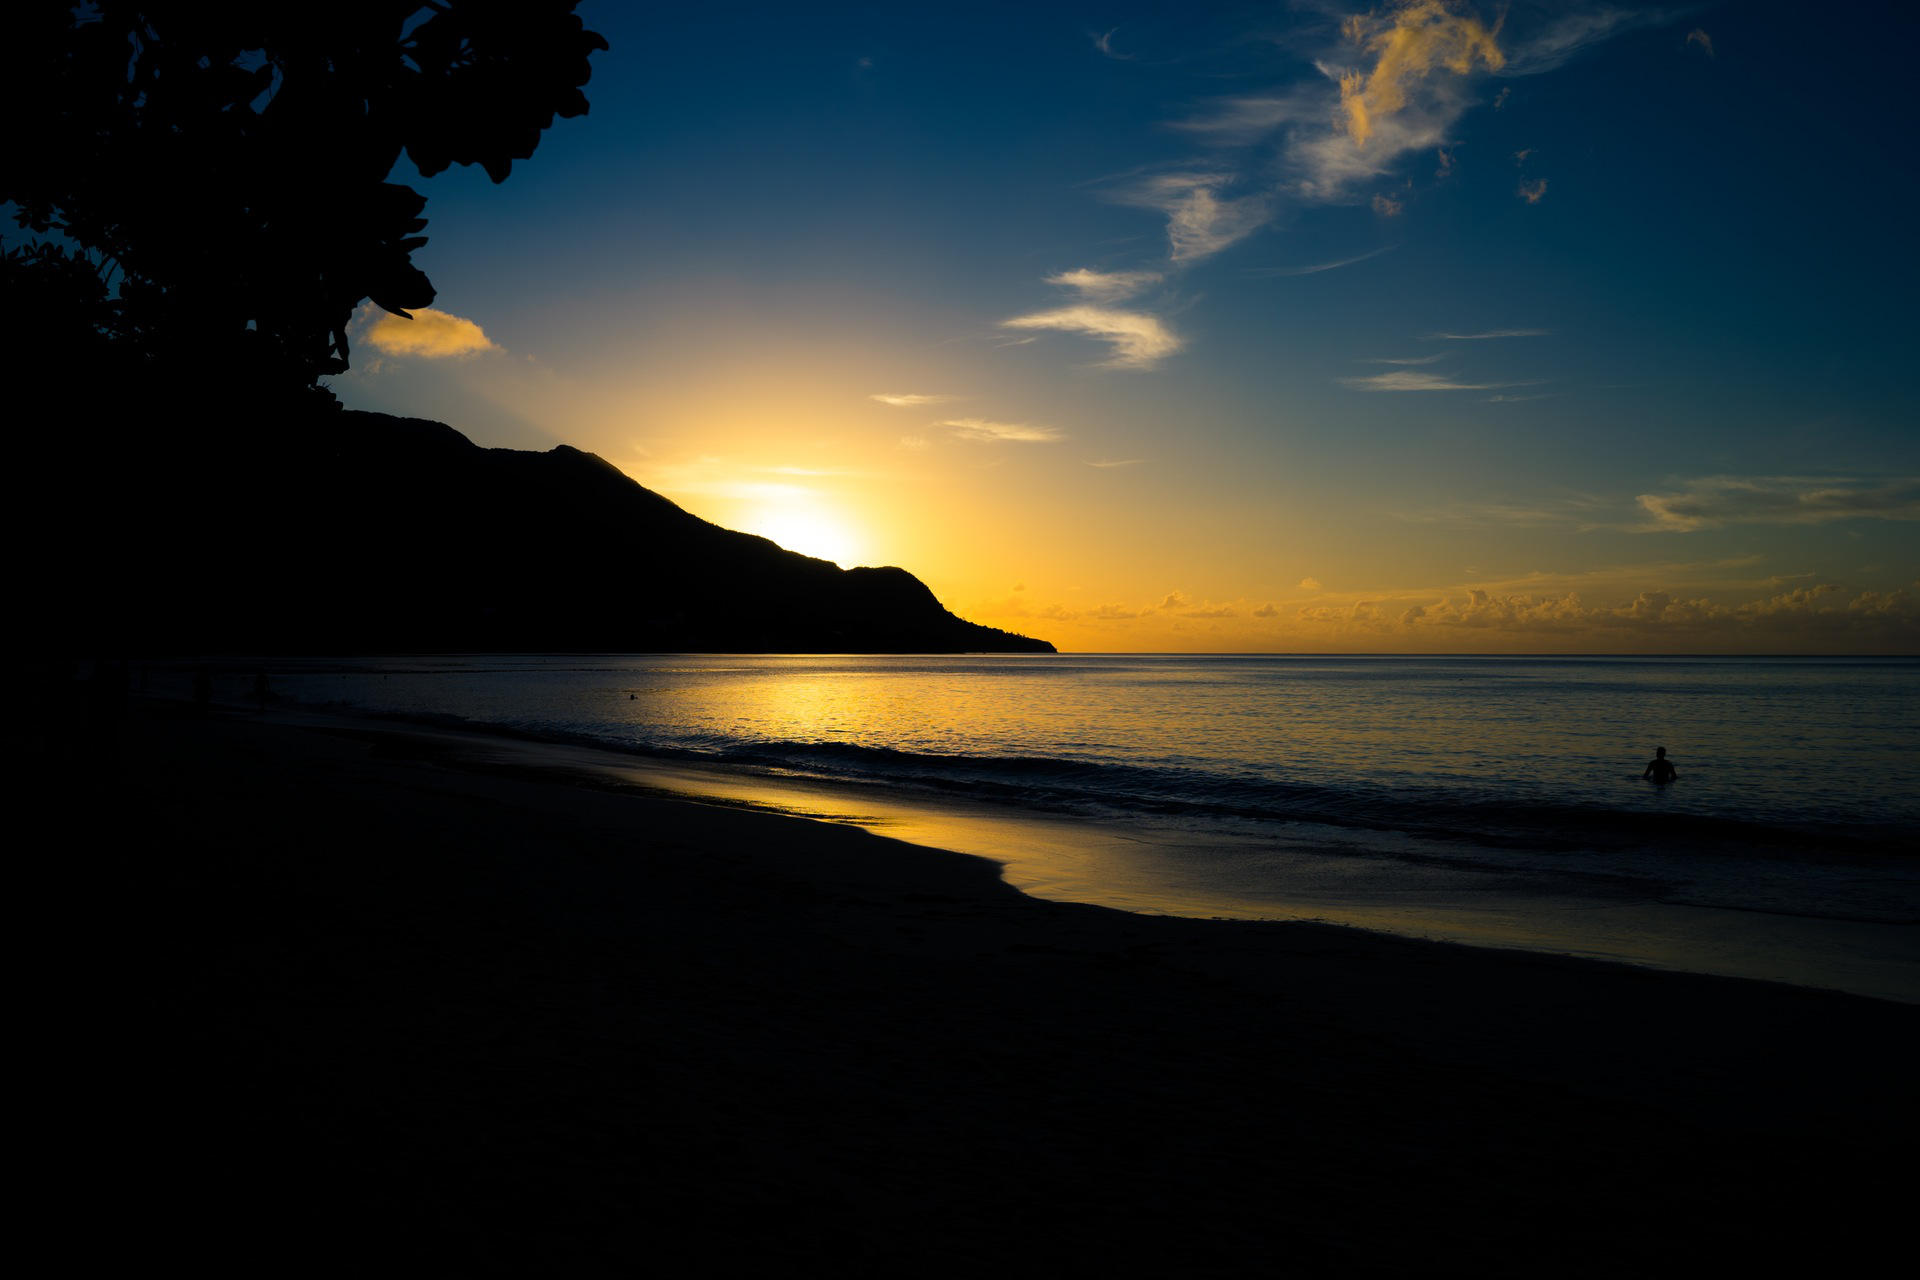
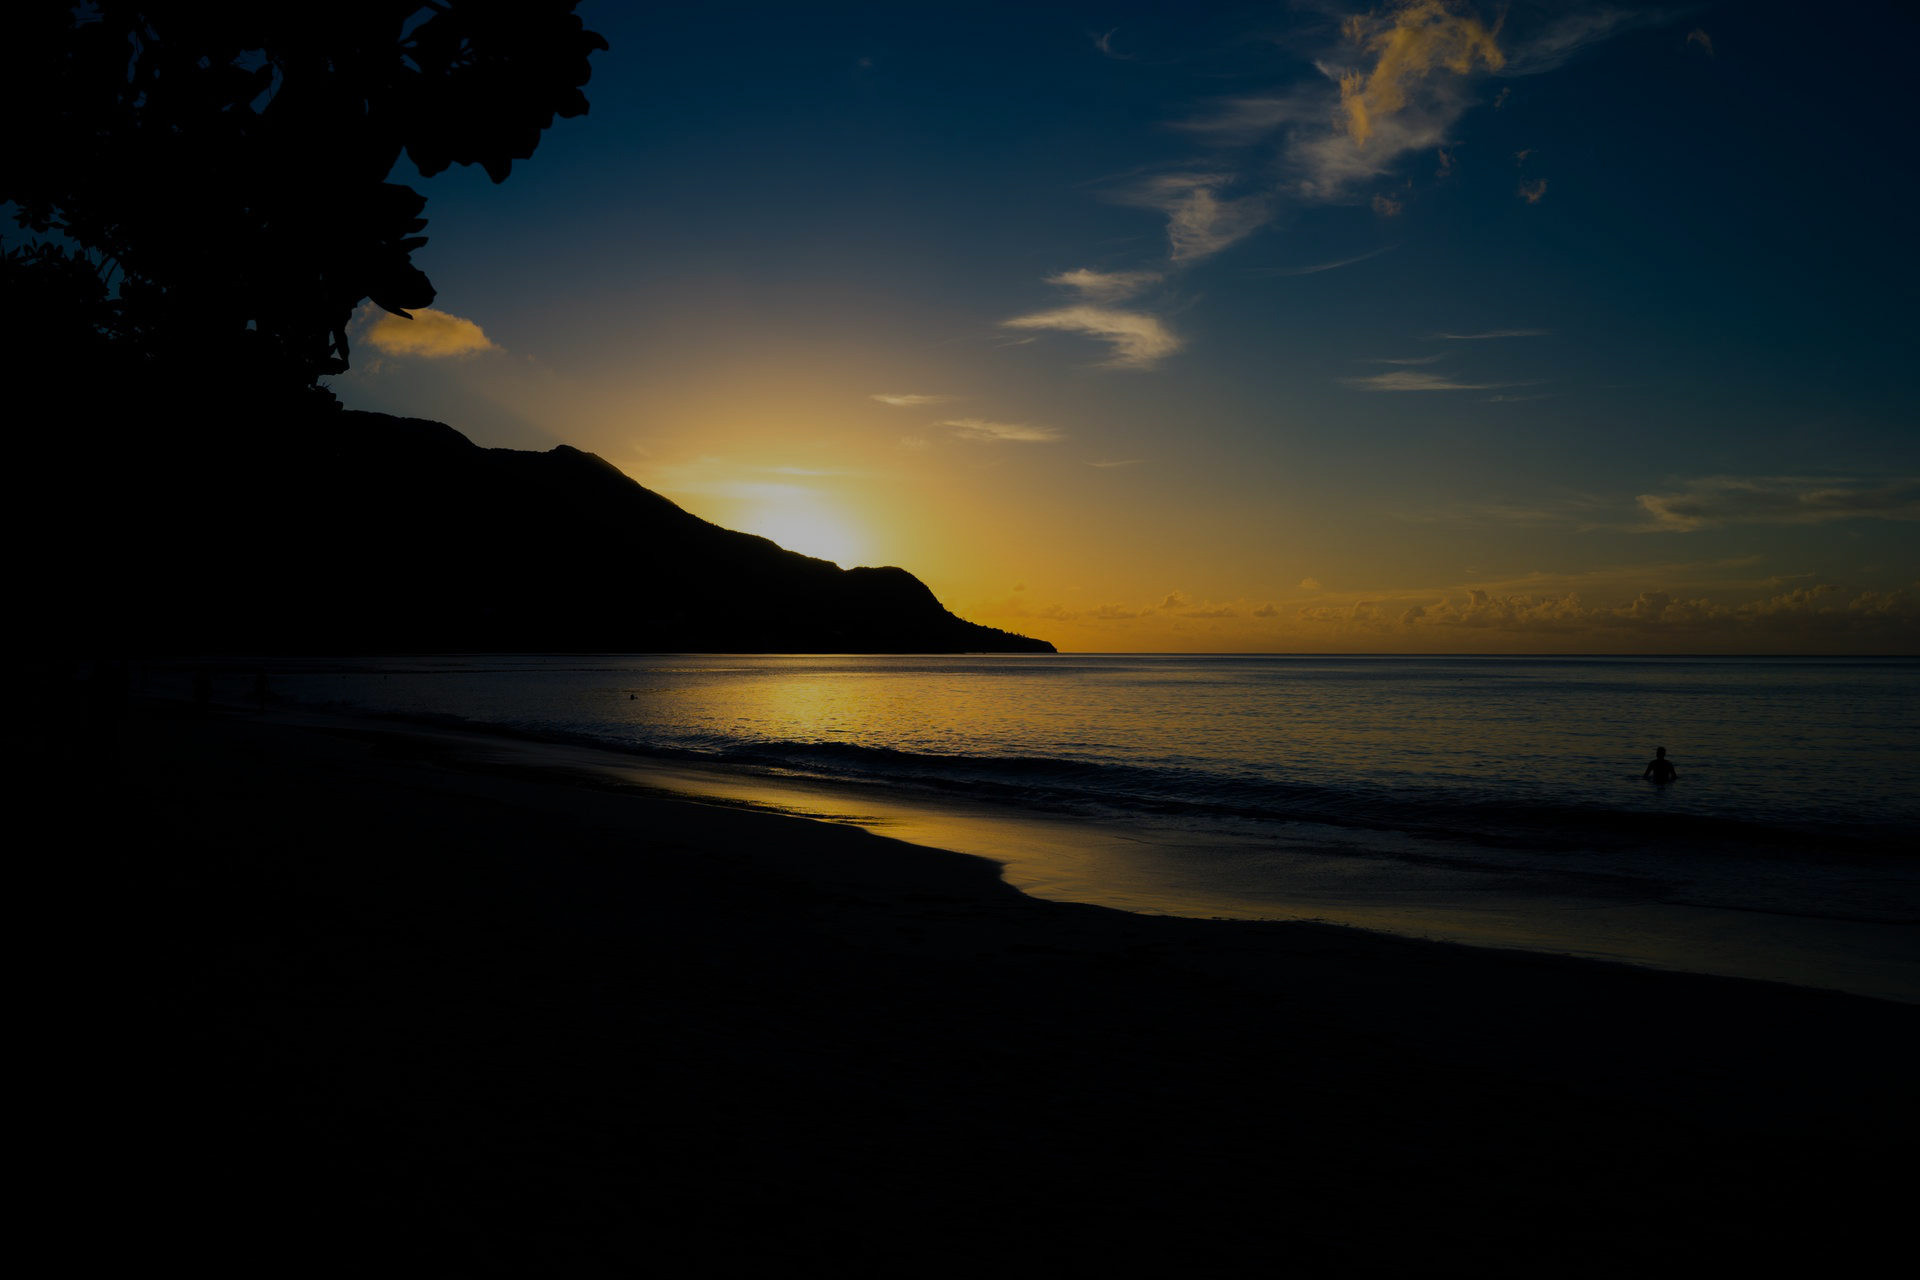
Change quote font and shadows, and darken bg-imgs for readability

Changed region(s): [[0.1562, 0.0, 0.9375, 0.7188], [0.9375, 0.375, 0.9688, 0.4062]]

diff --git a/styles/main.css b/styles/main.css
@@ -1,9 +1,8 @@
 html {
-  width: 100%;
+	width: 100%;
 }
 
 body {
-  font-size: 32px;
 }
 
 main {
@@ -53,19 +52,24 @@ a:hover {
 
 h1 {
   font-size: 2em;
-  font-family: Tangerine, cursive;
+	font-family: 'Niconne', cursive;
   color: #fff;
-  text-shadow: 0px 0px 1px rgb(0, 0, 0), 3px -5px 1px rgb(0, 0, 0), 2px -3px 3px rgba(0, 0, 0, 0.7);
-  margin: .25em .25em;
-  font-weight: 700;
+	text-shadow: 0 0 2px #fff,
+	-1px -1px 0 rgb(75, 75, 75),
+	-2px -2px 1px rgb(120, 120, 120),
+	-2px -2px 2px hsl(80, 10%, 15%);
 }
 
 h1>span {
-  font-size: .40em;
-  font-family: "Cutive Mono", monospace;
+  font-size: .5em;
+	font-family: "Cutive Mono", monospace;
   text-shadow: inherit;
-  text-shadow: 0px 0px 2px rgba(0, 0, 0, 0.8), 1px -3px 1px rgba(0, 0, 0, 0.3), 2px -3px 3px rgba(0, 0, 0, 0.7);
-  font-weight: 300;
+  text-shadow: 0 0 2px #fff,
+	text-shadow: 0 0 2px #fff,
+	-1px -1px 0 rgb(75, 75, 75),
+	-2px -2px 1px rgb(120, 120, 120),
+	-2px -2px 2px hsl(80, 10%, 15%);
+  font-weight: 500;
   line-height: 0.em;
 }
 

diff --git a/index.html b/index.html
@@ -5,8 +5,8 @@
 	<link rel="stylesheet" href="//cdnjs.cloudflare.com/ajax/libs/materialize/0.100.2/css/materialize.min.css">
 	<link href="//use.fontawesome.com/releases/v5.0.6/css/all.css" rel="stylesheet">
 	<link href="styles/loader.css" rel="stylesheet" type="text/css">
-	<link href='//fonts.googleapis.com/css?family=Tangerine:700' rel='stylesheet' type='text/css'>
-	<link href='//fonts.googleapis.com/css?family=Cutive+Mono' rel='stylesheet' type='text/css'>
+	<link href='//fonts.googleapis.com/css?family=Niconne' rel='stylesheet' type='text/css'>
+	<link href='//fonts.googleapis.com/css?family=Cutive+Mono:500' rel='stylesheet' type='text/css'>
 	<link href="styles/main.css" rel="stylesheet" type="text/css">
 	<meta charset="UTF-8">
 	<meta name="viewport" content="width=device-width, initial-scale=1.0" />

diff --git a/scripts/app.js b/scripts/app.js
@@ -9,7 +9,7 @@ $(function() {
 	// Rotating background images
 
 	const changeBackground = function() {
-	    const bgArray = ["bg1.jpg", "bg2.jpg", "bg3.jpg", "bg4.jpg", "bg5.jpg", "bg6.jpg", "bg7.jpg", "bg8.jpg", "bg9.jpg", "bg10.jpg", "bg11.jpg", "bg12.jpg", "bg13.jpg", "bg14.jpg"];
+	    const bgArray = ["bg1.jpg", "bg2.jpg", "bg3.jpg", "bg4.jpg", "bg5.jpg", "bg6.jpg", "bg7.jpg", "bg8.jpg", "bg9.jpg", "bg10.jpg", "bg11.jpg", "bg12.jpg", "bg13.jpg"];
 	    let bg = bgArray[Math.floor(Math.random() * bgArray.length)];
 	    const path = "images/";
 	    $(".content").stop().animate({backgroundColor: "rgba(0, 0, 0, 1)"}, 600 ,function() {
